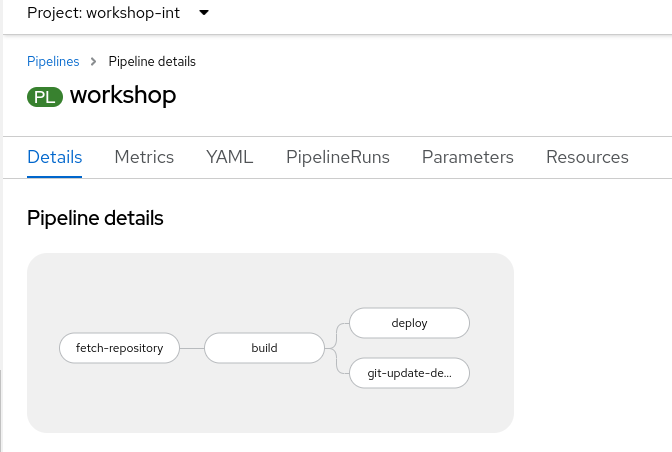
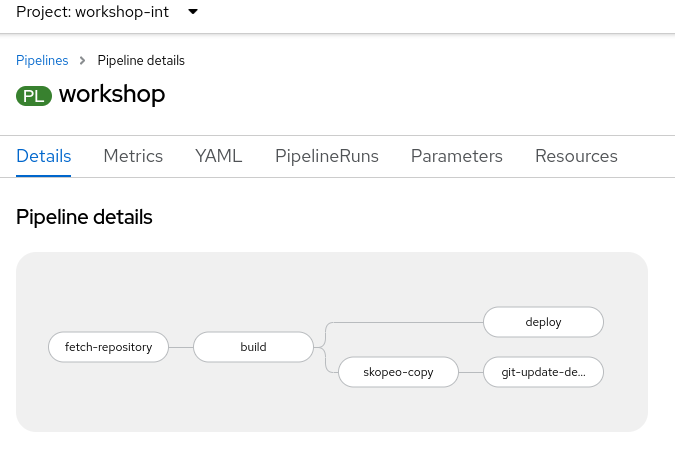
updated gitops with skopeo task

diff --git a/content/5-gitops/_index.md b/content/5-gitops/_index.md
@@ -230,7 +230,9 @@ spec:
       name: workspace
 ```
 
-## Add Tekton Task to Your Pipeline
+## Add Tekton Tasks to your Pipeline to Promote your Image to workshop-prod
+
+So now we a new Tekton Task our catalog to update a Gitops Git repo, but we still need to pomote the actual Image from out workshop-int to workshop-prod project. Otherwise the image will not be available for our Deployment.
 
 - Go to **Pipelines > Pipelines > workshop** and then YAML
 
@@ -259,6 +261,24 @@ In the OpenShift YAML viewer/editor you can mark multiple lines and use **tab** 
 {{% /notice %}}
 
 ```yaml
+- name: skopeo-copy
+      params:
+        - name: srcImageURL
+          value: 'docker://$(params.QUAY_URL)/openshift_workshop-int/workshop:latest'
+        - name: destImageURL
+          value: 'docker://$(params.QUAY_URL)/openshift_workshop-prod/workshop:latest'
+        - name: srcTLSverify
+          value: 'false'
+        - name: destTLSverify
+          value: 'false'
+      runAfter:
+        - build
+      taskRef:
+        kind: ClusterTask
+        name: skopeo-copy
+      workspaces:
+        - name: images-url
+          workspace: workspace
 - name: git-update-deployment
   params:
     - name: GIT_REPOSITORY
@@ -274,7 +294,7 @@ In the OpenShift YAML viewer/editor you can mark multiple lines and use **tab** 
     - name: KUSTOMIZATION_PATH
       value: environments/dev
   runAfter:
-    - build
+    - buiskopeo-copy
   taskRef:
     kind: Task
     name: git-update-deployment
@@ -283,43 +303,37 @@ In the OpenShift YAML viewer/editor you can mark multiple lines and use **tab** 
       workspace: workspace
 ```
 
-The `Pipeline` should now look like this. Notice that the new `task` runs in parallel to the `deploy` task
+The `Pipeline` should now look like this. Notice that the new `tasks` runs in parallel to the `deploy` task
 
 <!-- ![workshop Pipeline](../images/tekton.png) -->
 
 {{< figure src="../images/pipeline1.png?width=50pc&classes=border,shadow" title="Click image to enlarge" >}}
 
-- Create a **Secret** with credentials for your **Gitea** repository, so the **task** can authenticate and push to `Gitea`. If the `DOMAIN` placeholder hasn't been replaced automatically, do it manually to match your `Gitea` URL
-- You can add this by clicking on the **+** on the top right ob the Web Console
-
-```yaml
-kind: Secret
-apiVersion: v1
-metadata:
-  name: gitea
-  namespace: workshop-int
-  annotations:
-    tekton.dev/git-0: "https://repository-git.apps.<DOMAIN>/gitea/openshift-gitops-getting-started.git"
-data:
-  password: Z2l0ZWE=
-  username: Z2l0ZWE=
-type: kubernetes.io/basic-auth
-```
-
-Now we need to add the secret to the `serviceaccount` that runs our pipelines so the `task` can push to our config repo.
-
-- Go to **User Management > ServiceAccounts > pipeline**
-- To make the secret available during a pipeline run: Open the YAML and in the `secrets` section add:
-
-```yaml
-- name: gitea
-```
-
-- Save and ignore the warning
+Now the pipeline is set. The last thing we need is authentication against the Gitea repo and the workshop-prod Quay org. We will add those from the `start pipeline` form next.
 
 ## Update our Prod Stage via Pipeline and GitOps
 
-- Run the pipeline and see that in your Gitea repo `/environment/dev/kustomize.yaml` is updated with the new image version
+- Click on Pipeline **Start**
+
+  - In the form go down and expand **Show credential options**
+  - Click **Add Secret**, then enter
+    - **Secret name :** quay-workshop-prod-token
+    - **Access to:** Image Registry
+    - **Authentication type:** Basic Authentication
+    - **Server URL:**quay-quay-quay.apps.<DOMAIN>/openshift_workshop-prod
+    - **Username:** openshift_workshop-prod+builder
+    - **Password** : (Retrieve this from the Quay org openshift_workshop-int as before)
+    - Click the checkmark
+  - Then click **Add Secret** again
+    - **Secret name :** gitea-secret
+    - **Access to:** Git Server
+    - **Authentication type:** Basic Authentication
+    - **Server URL:**https://repository-git.apps.<DOMAIN>/gitea/openshift-gitops-getting-started.git
+    - **Username:** gitea
+    - **Password** : gitea
+    - Click the checkmark
+
+- Run the pipeline by clicking **Start** and see that in your Gitea repo `/environment/dev/kustomize.yaml` is updated with the new image version
   {{% notice tip %}}
   Notice that the `deploy` and the `git-update` steps now run in parallel. This is one of the powers of Tekton. It can scale natively with pods on OpenShift.
   {{% /notice %}}
@@ -330,4 +344,3 @@ Now we need to add the secret to the `serviceaccount` that runs our pipelines so
 ## Architecture recap
 
 {{< figure src="../images/workshop_architecture_gitops.png?width=50pc&classes=border,shadow" title="Click image to enlarge" >}}
-
